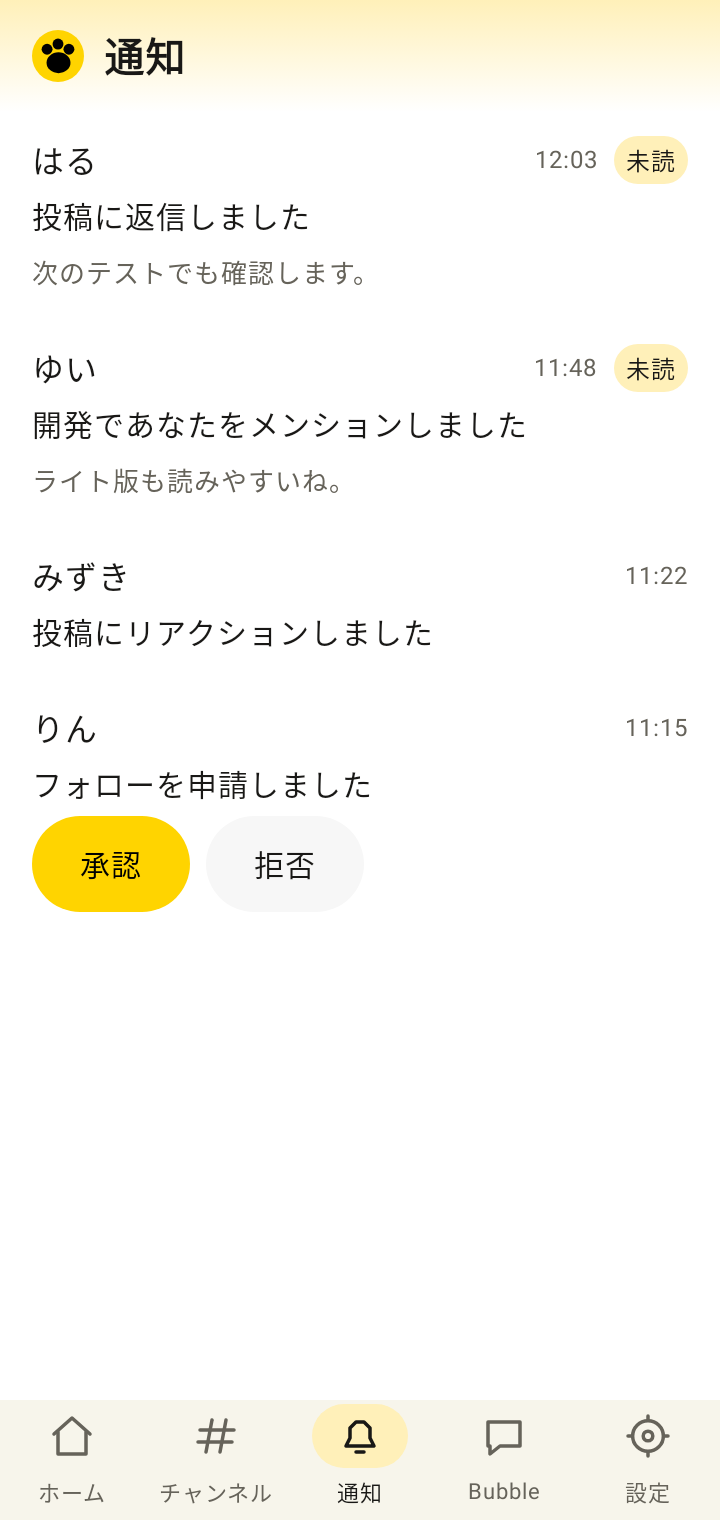
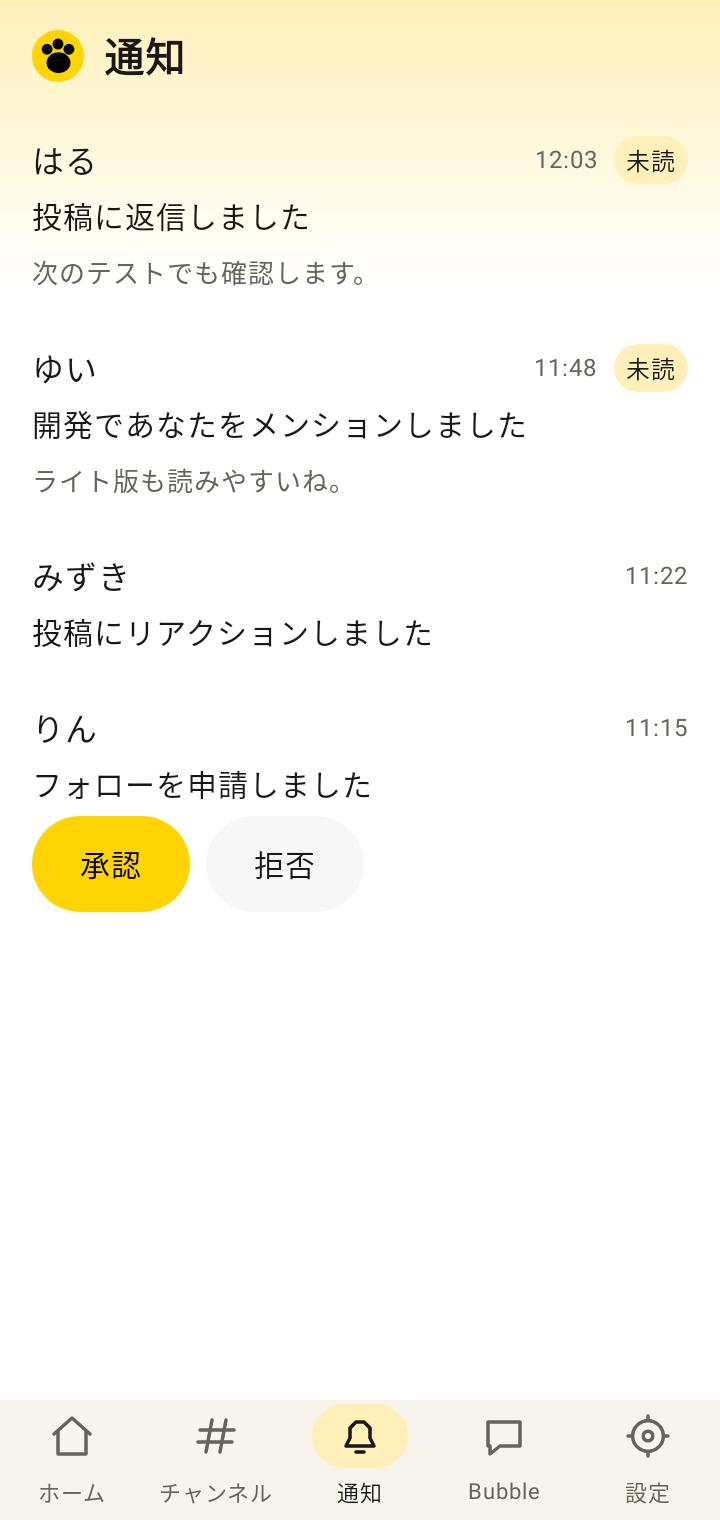
Android 通知画面の黄色い光を一覧まで広げる

Changed region(s): [[0.0, 0.0309, 1.0, 0.1237]]

diff --git a/frontend-compose/androidApp/src/main/kotlin/zoo/android/ui/AndroidShell.kt b/frontend-compose/androidApp/src/main/kotlin/zoo/android/ui/AndroidShell.kt
@@ -19,6 +19,7 @@ import androidx.compose.ui.geometry.Offset
 import androidx.compose.ui.geometry.Size
 import androidx.compose.ui.graphics.Brush
 import androidx.compose.ui.graphics.Color
+import androidx.compose.ui.platform.LocalDensity
 import androidx.compose.ui.semantics.Role
 import androidx.compose.ui.text.font.FontFamily
 import androidx.compose.ui.text.font.FontWeight
@@ -64,6 +65,11 @@ internal fun AndroidShell(
     screen: @Composable ColumnScope.(AndroidColors) -> Unit,
 ) {
     val colors = AndroidColors(dark)
+    val background = if (selected == TopPage.Notifications) {
+        val statusBar = WindowInsets.statusBars.asPaddingValues().calculateTopPadding()
+        val fadeHeight = with(LocalDensity.current) { (statusBar + 144.dp).toPx() }
+        Brush.verticalGradient(listOf(colors.headerLight, colors.background), endY = fadeHeight)
+    } else null
     val scheme = (if (dark) darkColorScheme() else lightColorScheme()).copy(
         primary = colors.accent,
         onPrimary = Color.Black,
@@ -87,7 +93,9 @@ internal fun AndroidShell(
             fontFamily = FontFamily.SansSerif,
             localeList = LocaleList(locale),
         )) {
-            Column(Modifier.fillMaxSize().background(colors.background).safeDrawingPadding()) {
+            Column(Modifier.fillMaxSize()
+                .then(if (background != null) Modifier.background(background) else Modifier.background(colors.background))
+                .safeDrawingPadding()) {
                 Column(Modifier.weight(1f).fillMaxWidth()) { screen(colors) }
                 if (selected != null) {
                     Row(Modifier.fillMaxWidth().background(colors.quietSurface).selectableGroup()) {
@@ -127,10 +135,12 @@ internal fun PageHeader(
     onBack: (() -> Unit)? = null,
     onOpen: (() -> Unit)? = null,
     titleWeight: FontWeight = AndroidWeights.emphasis,
+    paintBackground: Boolean = true,
     actions: @Composable RowScope.() -> Unit = {},
 ) {
     Row(
-        Modifier.fillMaxWidth().background(Brush.verticalGradient(listOf(colors.headerLight, colors.background)))
+        Modifier.fillMaxWidth()
+            .then(if (paintBackground) Modifier.background(Brush.verticalGradient(listOf(colors.headerLight, colors.background))) else Modifier)
             .heightIn(min = 56.dp).padding(horizontal = 16.dp),
         verticalAlignment = Alignment.CenterVertically,
         horizontalArrangement = Arrangement.spacedBy(10.dp),

diff --git a/frontend-compose/androidApp/src/main/kotlin/zoo/android/ui/NotificationPage.kt b/frontend-compose/androidApp/src/main/kotlin/zoo/android/ui/NotificationPage.kt
@@ -35,7 +35,7 @@ internal fun NotificationPage(
     loadMore: () -> Unit,
     respond: (String, String, Boolean) -> Unit,
 ) {
-    PageHeader("通知", colors)
+    PageHeader("通知", colors, paintBackground = false)
     val scroll = rememberLazyListState()
     val visible by remember {
         derivedStateOf {
